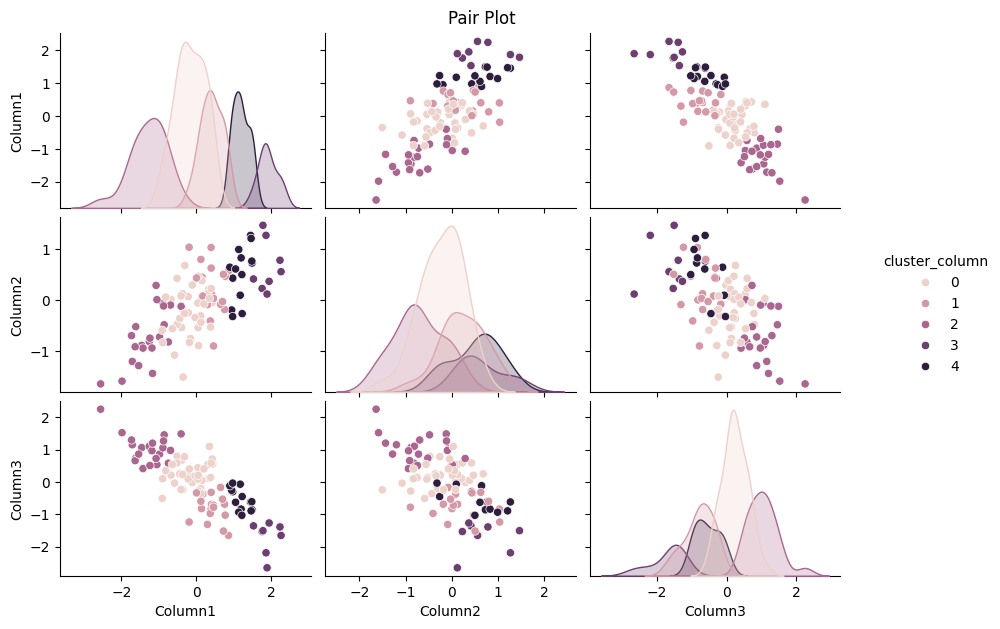
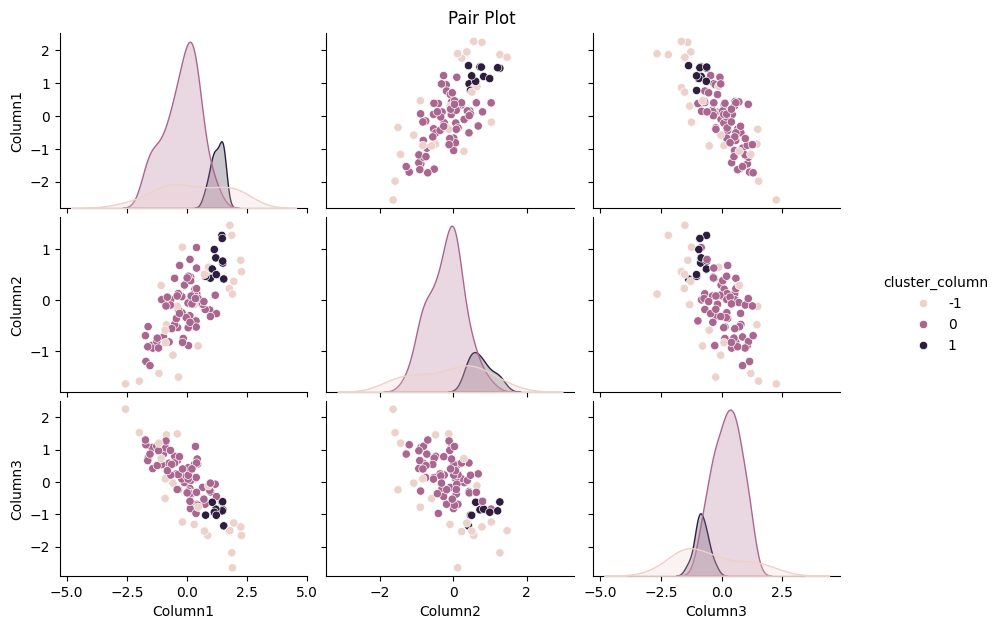
sync

diff --git a/src/rgwml/p.py b/src/rgwml/p.py
@@ -1268,8 +1268,8 @@ class p:
 
         return self
 
-    def acc(self, features, operation, cluster_column_name, visualize=False, n_clusters_finding_method=None, dbscan_eps=0.5, dbscan_min_samples=5):
-        """APPEND::[d.acc('Column1,Column2', 'KMEANS', 'new_cluster_column_name', visualize=True, n_clusters_finding_method='FIXED:5')] Append cluster analysis column. Available operations: KMEANS/ DBSCAN/ AGGLOMERATIVE/ MEAN_SHIFT/ GMM/ SPECTRAL/ BIRCH.Optional: visualize (boolean), n_cluster_finding_method (str) i.e. ELBOW/ SILHOUETTE/ FIXED:n (specify a number of n clusters); dbscan_eps (float), dbscan_min_samples (int)."""
+    def ancc(self, features, operation, cluster_column_name, n_clusters_finding_method=None, visualize=True):
+        """APPEND::[d.ancc('Column1,Column2', 'KMEANS', 'new_cluster_column_name', n_clusters_finding_method='FIXED:5', visualize=True)] Append n-cluster column. Available operations: KMEANS/ AGGLOMERATIVE/ MEAN_SHIFT/ GMM/ SPECTRAL/ BIRCH. Optional: visualize (boolean), n_cluster_finding_method (str) i.e. ELBOW/ SILHOUETTE/ FIXED:n (specify a number of n clusters)."""
         def perform_kmeans(X, n_clusters):
             kmeans = KMeans(n_clusters=n_clusters, random_state=0)
             return kmeans.fit_predict(X)
@@ -1407,24 +1407,19 @@ class p:
 
             # Determine the optimal number of clusters if required
             n_clusters = None
-            if operation != 'DBSCAN':
-                if n_clusters_finding_method == None:
-                    n_clusters_finding_method = 'ELBOW'
-                optimal_method = parse_optimal_clustering_method(n_clusters_finding_method)
-                if isinstance(optimal_method, int):
-                    n_clusters = optimal_method
-                elif optimal_method == 'ELBOW':
-                    n_clusters = find_optimal_clusters_elbow(X)
-                elif optimal_method == 'SILHOUETTE':
-                    n_clusters = find_optimal_clusters_silhouette(X)
-            elif operation != 'DBSCAN' and not optimal_n_cluster_finding_method:
-                raise ValueError("Optimal clustering method must be specified for algorithms that require n_clusters")
+            if n_clusters_finding_method == None:
+                n_clusters_finding_method = 'ELBOW'
+            optimal_method = parse_optimal_clustering_method(n_clusters_finding_method)
+            if isinstance(optimal_method, int):
+                n_clusters = optimal_method
+            elif optimal_method == 'ELBOW':
+                n_clusters = find_optimal_clusters_elbow(X)
+            elif optimal_method == 'SILHOUETTE':
+                n_clusters = find_optimal_clusters_silhouette(X)
 
             # Perform the chosen clustering operation
             if operation == 'KMEANS':
                 self.df[cluster_column_name] = perform_kmeans(X, n_clusters)
-            elif operation == 'DBSCAN':
-                self.df[cluster_column_name] = perform_dbscan(X, dbscan_eps, dbscan_min_samples)
             elif operation == 'AGGLOMERATIVE':
                 self.df[cluster_column_name] = perform_agglomerative(X, n_clusters)
             elif operation == 'MEAN_SHIFT':
@@ -1436,10 +1431,86 @@ class p:
             elif operation == 'BIRCH':
                 self.df[cluster_column_name] = perform_birch(X, n_clusters)
             else:
-                raise ValueError("Operation must be one of 'KMEANS', 'DBSCAN', 'AGGLOMERATIVE', 'MEAN_SHIFT', 'GMM', 'SPECTRAL', or 'BIRCH'")
+                raise ValueError("Operation must be one of 'KMEANS', 'AGGLOMERATIVE', 'MEAN_SHIFT', 'GMM', 'SPECTRAL', or 'BIRCH'")
             
             if visualize:
                 plot_cluster_analysis(X, feature_list, cluster_column_name, operation)
+
+            self.pr()
+        else:
+            raise ValueError("No DataFrame to append a cluster analysis column. Please load a file first using the frm or frml method.")
+        gc.collect()
+        return self
+
+
+
+    def adbscancc(self, features, cluster_column_name, eps, min_samples, visualize=True):
+        """APPEND::[d.adbscancc('Column1,Column2', 'new_cluster_column_name', eps=0.5, min_samples=5, visualize=True)] Append DBSCAN cluster column. Optional: visualize (boolean)."""
+        def perform_dbscan(X, eps, min_samples):
+            dbscan = DBSCAN(eps=eps, min_samples=min_samples)
+            return dbscan.fit_predict(X)
+
+        def save_and_show_plot(filename, plots):
+            temp_file = tempfile.NamedTemporaryFile(delete=False, suffix='.png')
+            plt.savefig(temp_file.name)
+            plt.close()
+            plots.append(temp_file.name)
+
+        def combine_and_show_plots(plot_files):
+            images = [Image.open(file) for file in plot_files]
+            widths, heights = zip(*(img.size for img in images))
+
+            total_width = max(widths)
+            total_height = sum(heights)
+
+            combined_image = Image.new('RGB', (total_width, total_height))
+
+            y_offset = 0
+            for img in images:
+                combined_image.paste(img, (0, y_offset))
+                y_offset += img.height
+
+            combined_image.show()
+
+        def plot_clusters_3d(x_col, y_col, z_col, cluster_col, plots):
+            fig = plt.figure(figsize=(10, 6))
+            ax = fig.add_subplot(111, projection='3d')
+            for cluster in self.df[cluster_col].unique():
+                cluster_data = self.df[self.df[cluster_col] == cluster]
+                ax.scatter(cluster_data[x_col], cluster_data[y_col], cluster_data[z_col], label=f'Cluster {cluster}')
+            ax.set_xlabel(x_col)
+            ax.set_ylabel(y_col)
+            ax.set_zlabel(z_col)
+            ax.legend()
+            plt.title('3D Cluster Plot')
+            save_and_show_plot('3d_cluster_plot.png', plots)
+
+        def plot_cluster_analysis(X, feature_list, cluster_column_name):
+            """Visualize cluster analysis results."""
+            # Pair plot
+            pair_plot = sns.pairplot(self.df[feature_list + [cluster_column_name]], hue=cluster_column_name)
+            pair_plot.fig.set_size_inches(10.31, 6)
+            pair_plot.fig.suptitle('Pair Plot',y=1.02)
+            pair_plot.savefig('pair_plot.png')
+            plots.append('pair_plot.png')
+
+            # 3D scatter plot if there are at least 3 features
+            if len(feature_list) == 3:
+                plot_clusters_3d(feature_list[0], feature_list[1], feature_list[2], cluster_column_name, plots)
+
+            combine_and_show_plots(plots)
+
+        plots = []
+
+        if self.df is not None:
+            # Select the features for clustering
+            feature_list = [feature.strip() for feature in features.split(',')]
+            X = self.df[feature_list]
+
+            self.df[cluster_column_name] = perform_dbscan(X, eps, min_samples)
+           
+            if visualize:
+                plot_cluster_analysis(X, feature_list, cluster_column_name)
 
             self.pr()
         else:

diff --git a/tests.py b/tests.py
@@ -179,6 +179,55 @@ def test_acc():
     d.acc('Column1,Column2,Column3', 'KMEANS', 'cluster_column', visualize=True, n_clusters_finding_method='FIXED:5')
 
 
+def test_ancc():
+    np.random.seed(0)
+
+    # Create a DataFrame with sample data
+    data = {
+        'Column1': np.random.normal(0, 1, 100),
+        'Column2': np.random.normal(0, 1, 100),
+        'Column3': np.random.normal(0, 1, 100)
+    }
+
+    # Introduce some correlation
+    data['Column2'] = data['Column1'] * 0.5 + np.random.normal(0, 0.5, 100)
+    data['Column3'] = data['Column1'] * -0.7 + np.random.normal(0, 0.5, 100)
+
+
+    headers = ['Column1', 'Column2', 'Column3']
+    data_list = [data[col].tolist() for col in headers]
+
+    d = r.p()
+    d.frd(headers,data_list)
+
+    # Perform clustering using the acc method
+    d.ancc('Column1,Column2,Column3', 'KMEANS', 'cluster_column', n_clusters_finding_method='FIXED:5',visualize=True)
+
+def test_adbscancc():
+    np.random.seed(0)
+
+    # Create a DataFrame with sample data
+    data = {
+        'Column1': np.random.normal(0, 1, 100),
+        'Column2': np.random.normal(0, 1, 100),
+        'Column3': np.random.normal(0, 1, 100)
+    }
+
+    # Introduce some correlation
+    data['Column2'] = data['Column1'] * 0.5 + np.random.normal(0, 0.5, 100)
+    data['Column3'] = data['Column1'] * -0.7 + np.random.normal(0, 0.5, 100)
+
+
+    headers = ['Column1', 'Column2', 'Column3']
+    data_list = [data[col].tolist() for col in headers]
+
+    d = r.p()
+    d.frd(headers,data_list)
+
+    # Perform clustering using the acc method
+    d.adbscancc('Column1,Column2,Column3', 'cluster_column', eps=0.5, min_samples=5, visualize=True)
+
+
 # Call the test method
 #test_axlinr()
 #test_axlinr_2()
@@ -189,5 +238,6 @@ def test_acc():
 #test_pdist()
 #test_pqq()
 #test_pcr()
-test_acc()
+test_ancc()
+test_adbscancc()
 
